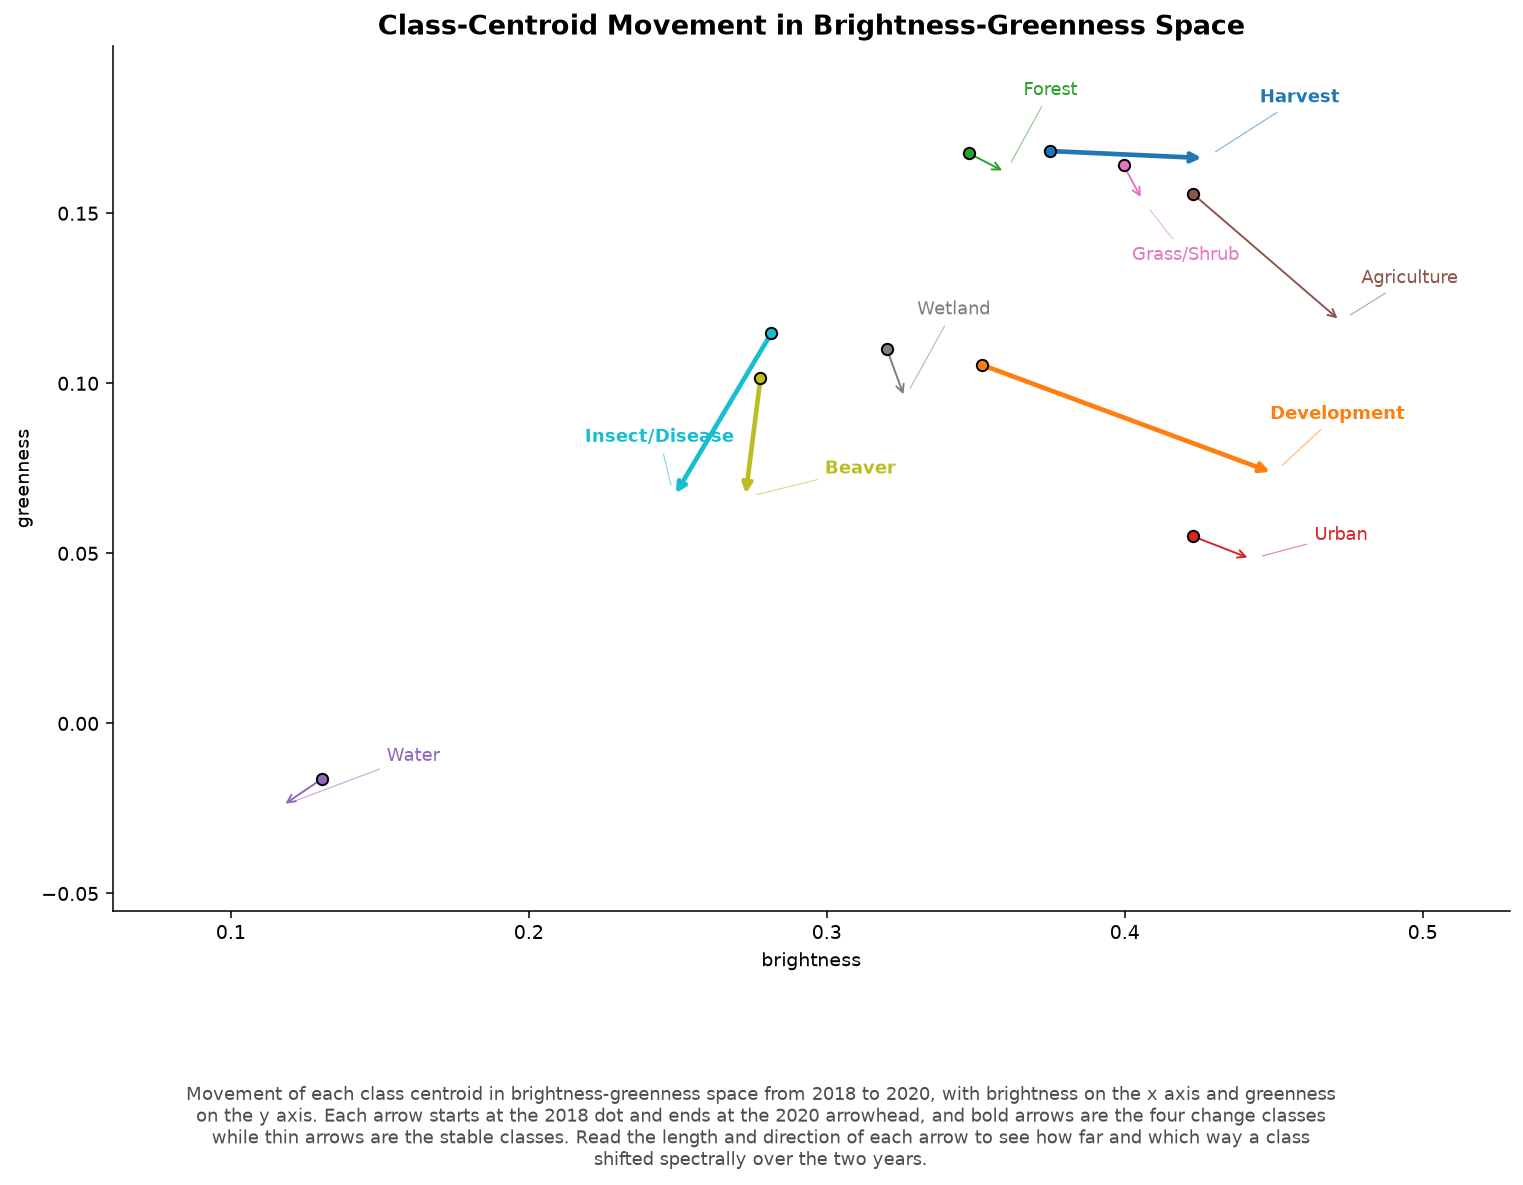
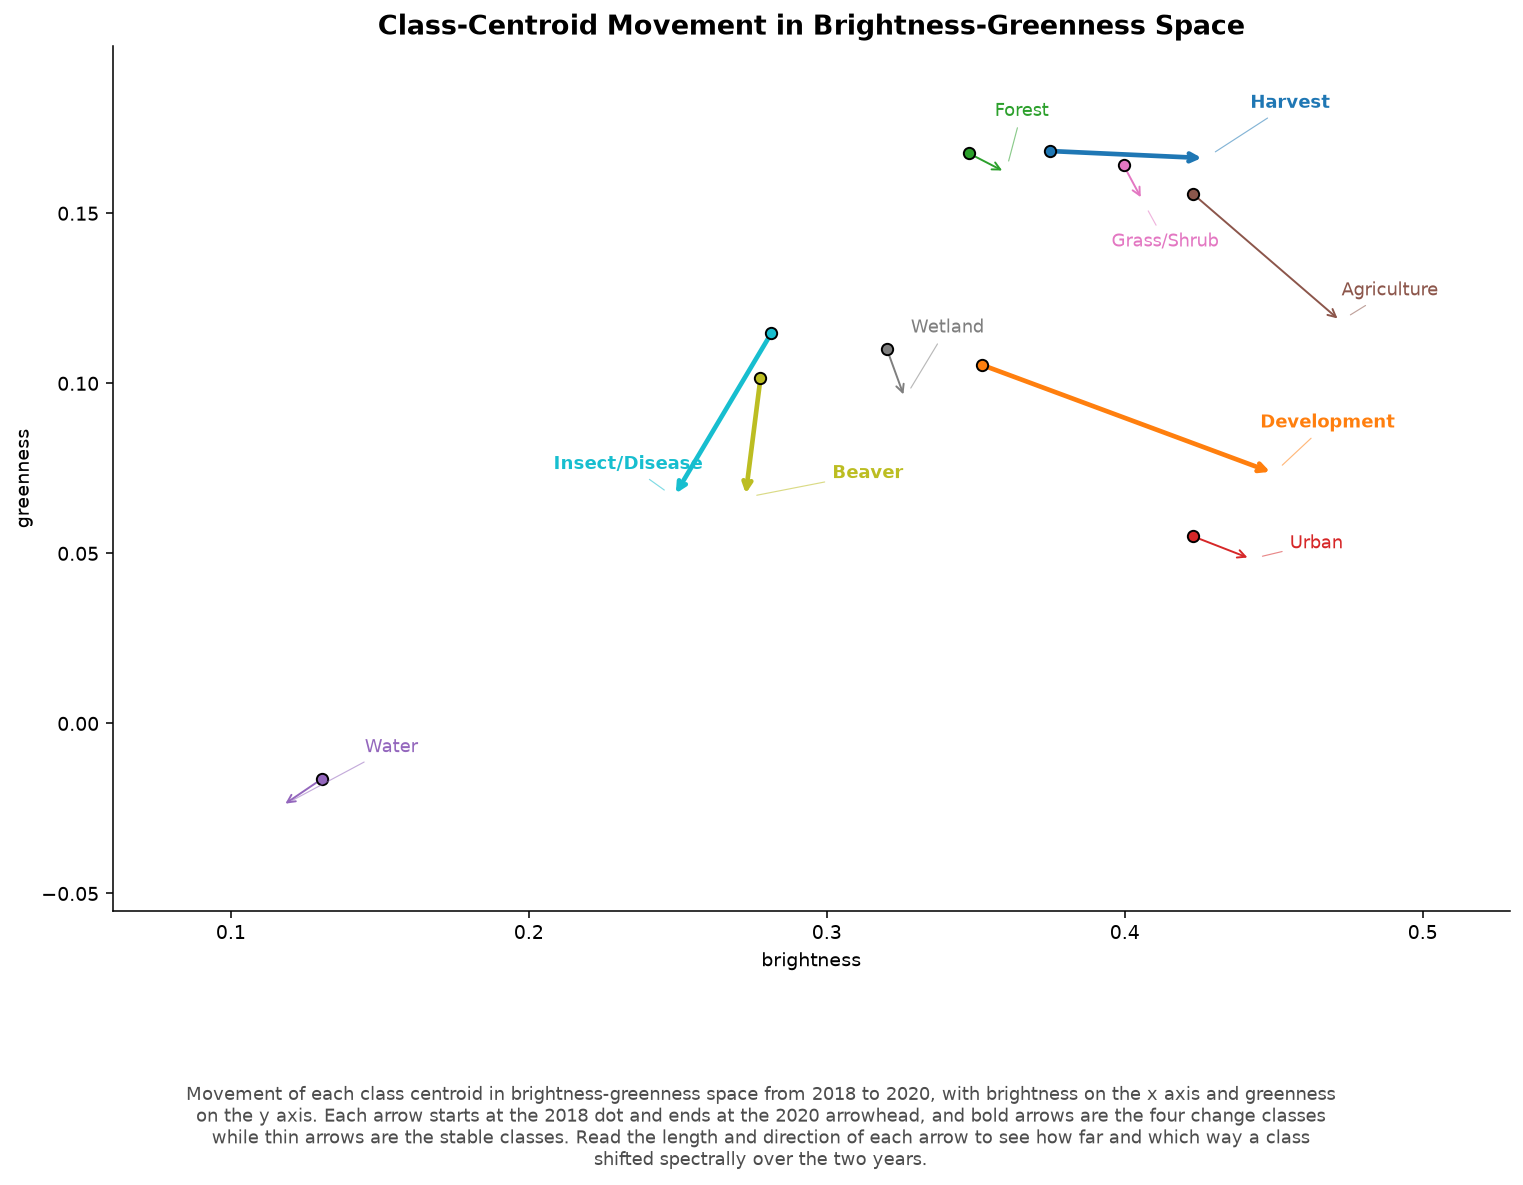
TC trajectory: repel labels off the arrow lines, not just endpoints
Sample points along each arrow (2018 to 2020) and repel the class labels from all
of them, so the Insect/Disease label no longer crosses its own arrow. Gentler
avoid radius keeps the other labels in place.

diff --git a/scripts/plot_tc_training.py b/scripts/plot_tc_training.py
@@ -141,11 +141,11 @@ def _repel_labels(targets, avoid, xlim, ylim, iters=700):
             for j in range(len(lab)):
                 if i != j and dist[j] < 0.14:
                     disp[i] += dl[j] / (dist[j] + 1e-6) * (0.14 - dist[j]) * 0.5
-            da = lab[i] - av                                    # repel from every plotted centroid
+            da = lab[i] - av                                    # repel from every avoid point (dots and arrow lines)
             dda = np.hypot(da[:, 0], da[:, 1])
             for j in range(len(av)):
-                if dda[j] < 0.07:
-                    disp[i] += da[j] / (dda[j] + 1e-6) * (0.07 - dda[j]) * 0.5
+                if dda[j] < 0.05:
+                    disp[i] += da[j] / (dda[j] + 1e-6) * (0.05 - dda[j]) * 0.5
             sp = t[i] - lab[i]                                  # spring back toward own target
             if np.hypot(*sp) > 0.11:
                 disp[i] += sp * 0.10
@@ -173,8 +173,10 @@ def trajectory(df):
                     arrowprops=dict(arrowstyle="->", color=PAL[l], lw=lw))
         ax.scatter([b0[i]], [g0[i]], s=34, color=PAL[l], edgecolors="k", zorder=3)
 
-    # labels point at the 2020 arrowheads but avoid both the 2018 and 2020 centroids
-    avoid = np.vstack([np.column_stack([b0, g0]), np.column_stack([b1, g1])])
+    # labels point at the 2020 arrowheads but avoid points sampled along each arrow (2018 to 2020),
+    # so a label clears the whole arrow line rather than just its endpoints
+    fracs = np.linspace(0.0, 1.0, 5)
+    avoid = np.vstack([np.column_stack([b0 + (b1 - b0) * f, g0 + (g1 - g0) * f]) for f in fracs])
     pos = _repel_labels(np.column_stack([b1, g1]), avoid, xlim, ylim)
     for i, l in enumerate(labs):
         ax.annotate(NAMES[l], xy=(b1[i], g1[i]), xytext=(pos[i, 0], pos[i, 1]),
